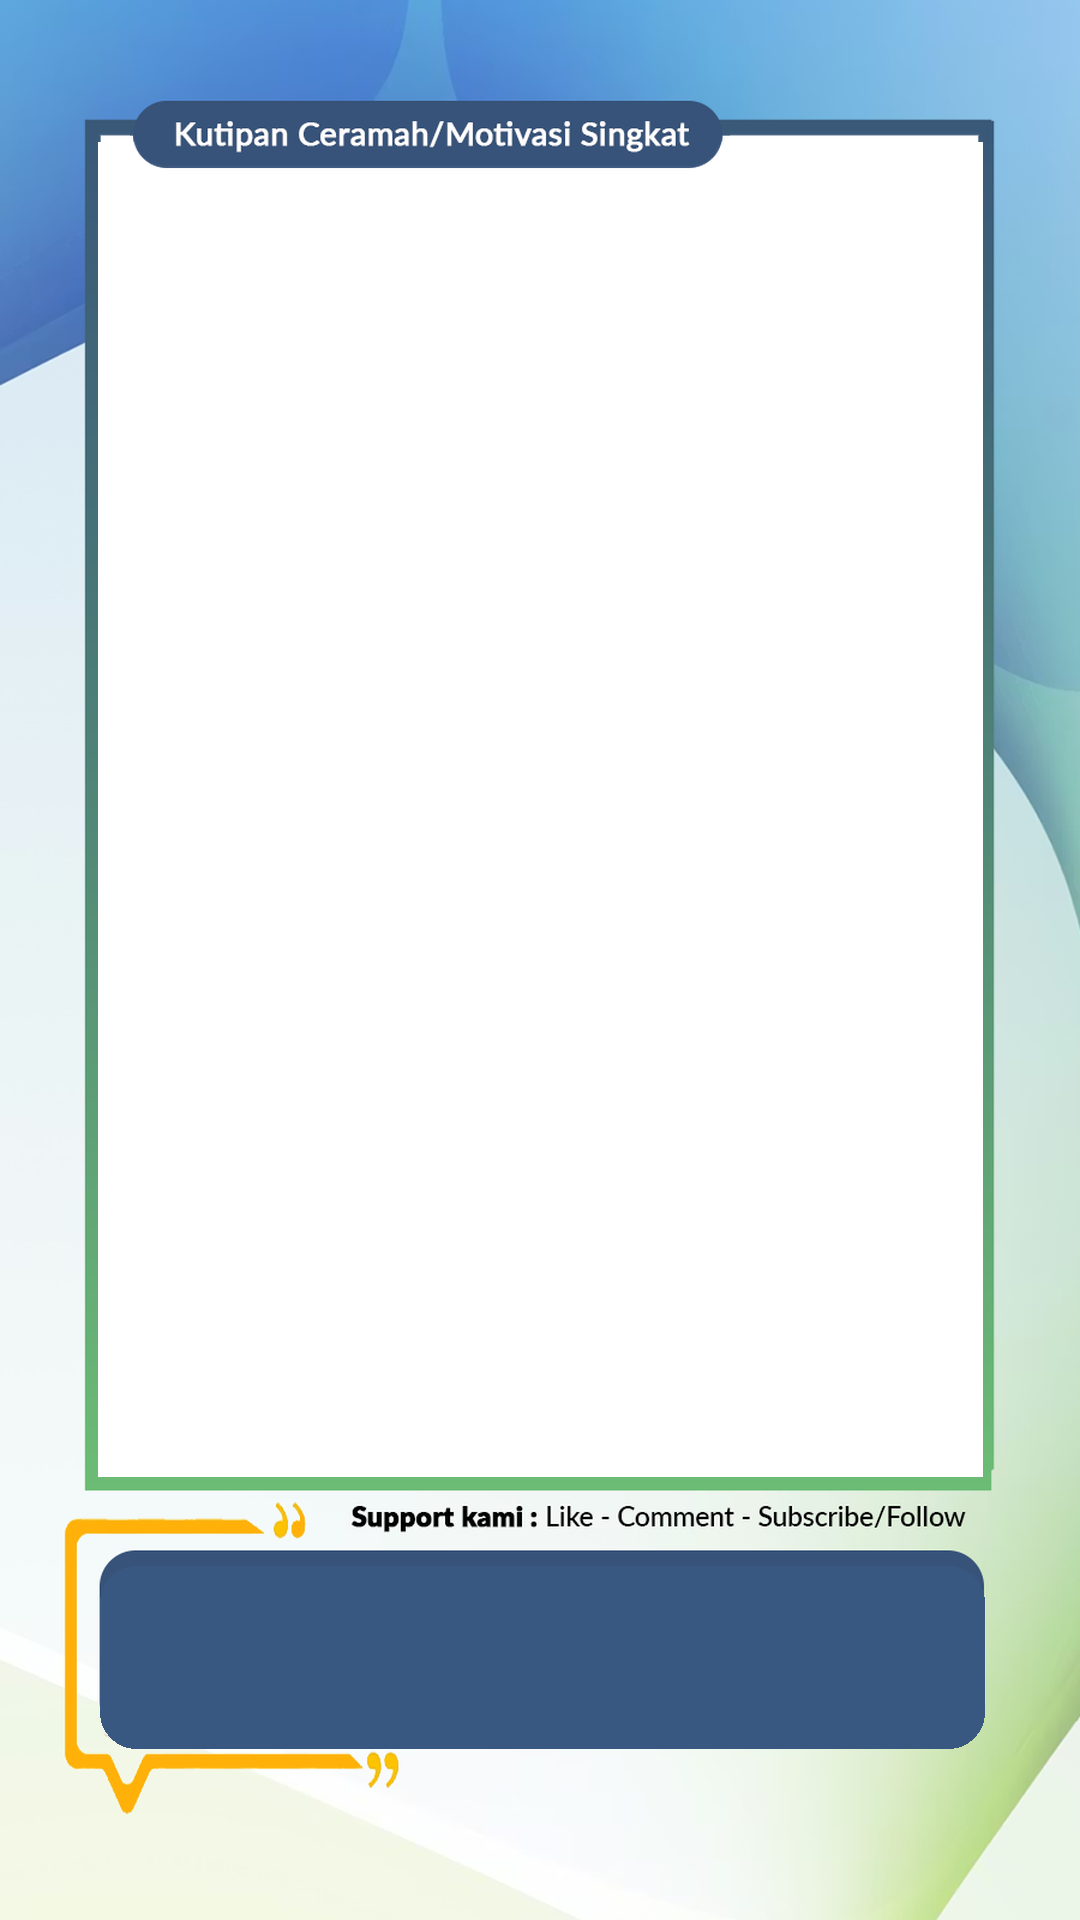
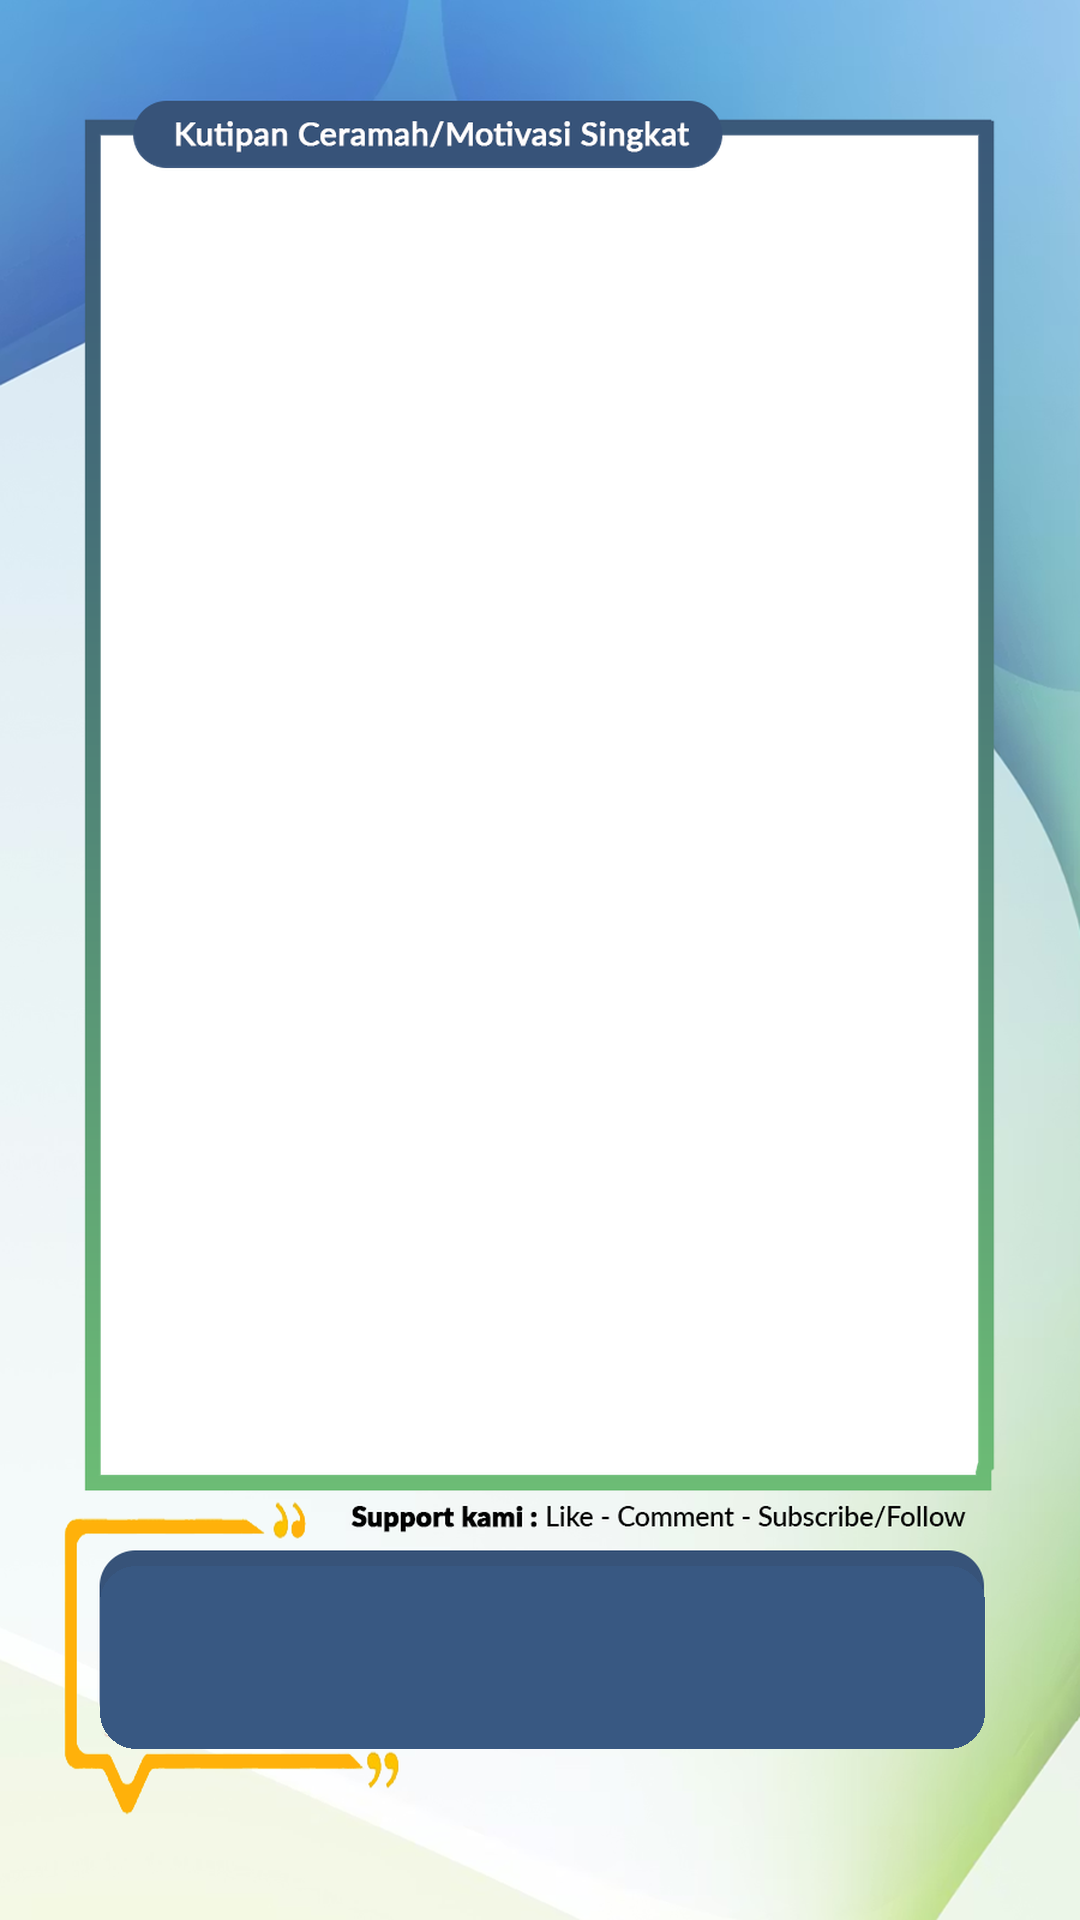
Use provided SkipByte frame design

Changed region(s): [[0.8861, 0.0938, 0.9167, 0.7812]]

diff --git a/src/video-effects.js b/src/video-effects.js
@@ -4,10 +4,10 @@ import { spawn } from "node:child_process";
 import { config } from "./config.js";
 
 const FRAME = {
-  width: 912,
-  height: 1362,
-  x: 84,
-  y: 128
+  width: 884,
+  height: 1334,
+  x: 98,
+  y: 142
 };
 const rendererPath = path.join(config.srcDir, "branding-renderer.py");
 
@@ -59,6 +59,11 @@ async function hasAudioStream(filePath) {
 
 function ffmpegPathArg(filePath) {
   return String(filePath).replace(/\\/g, "/").replace(/'/g, "\\'");
+}
+
+function foregroundFramePath(framePath) {
+  const parsed = path.parse(framePath);
+  return path.join(parsed.dir, `${parsed.name}-foreground${parsed.ext || ".png"}`);
 }
 
 function lightFilterChain() {
@@ -182,6 +187,7 @@ export async function applyVideoEffects({ job, video, output, options = {} }) {
   }
 
   const useFrame = selected.frame;
+  const frameForegroundPath = useFrame ? foregroundFramePath(config.videoEffects.frameAssetPath) : "";
   const useWatermark = !useFrame && selected.watermark && await fileIsReadable(config.videoEffects.watermarkAssetPath);
   const lowerThirdText = normalizeOverlayText(
     options.lowerThirdText
@@ -194,6 +200,9 @@ export async function applyVideoEffects({ job, video, output, options = {} }) {
   const useLowerThird = Boolean(useFrame && selected.lowerThird && lowerThirdText);
   if (selected.frame && !await fileIsReadable(config.videoEffects.frameAssetPath)) {
     throw new Error(`VIDEO_FRAME_ASSET tidak ditemukan: ${config.videoEffects.frameAssetPath}`);
+  }
+  if (useFrame && !await fileIsReadable(frameForegroundPath)) {
+    throw new Error(`VIDEO_FRAME foreground tidak ditemukan: ${frameForegroundPath}`);
   }
   if (!useFrame && selected.watermark && !useWatermark) {
     throw new Error(`VIDEO_WATERMARK_ASSET tidak ditemukan: ${config.videoEffects.watermarkAssetPath}`);
@@ -211,8 +220,8 @@ export async function applyVideoEffects({ job, video, output, options = {} }) {
 
   const args = ["-y", "-fflags", "+genpts", "-i", inputPath];
   if (useFrame) {
-    args.push("-f", "lavfi", "-i", "color=c=#070709:s=1080x1920:r=30");
     args.push("-loop", "1", "-i", config.videoEffects.frameAssetPath);
+    args.push("-loop", "1", "-i", frameForegroundPath);
   }
   if (useLowerThird) {
     args.push("-loop", "1", "-i", lowerThirdPath);
@@ -284,6 +293,7 @@ export async function applyVideoEffects({ job, video, output, options = {} }) {
       lowerThird: useLowerThird,
       lowerThirdText: useLowerThird ? lowerThirdText : "",
       frameAssetPath: useFrame ? ffmpegPathArg(config.videoEffects.frameAssetPath) : "",
+      frameForegroundPath: useFrame ? ffmpegPathArg(frameForegroundPath) : "",
       watermarkAssetPath: useWatermark ? ffmpegPathArg(config.videoEffects.watermarkAssetPath) : ""
     }
   };

diff --git a/src/branding-renderer.py b/src/branding-renderer.py
@@ -275,19 +275,27 @@ def render_frame(args):
     if source_path.exists():
         original = Image.open(source_path).convert("RGBA").resize((CANVAS_W, CANVAS_H), Image.Resampling.LANCZOS)
         canvas = original.copy()
-        alpha = canvas.getchannel("A")
-        alpha_draw = ImageDraw.Draw(alpha)
-        alpha_draw.rectangle((98, 142, 982, 1476), fill=0)
-        canvas.putalpha(alpha)
-        for box in [(130, 98, 730, 174), (775, 145, 970, 278)]:
-            canvas.alpha_composite(original.crop(box), box[:2])
         draw = ImageDraw.Draw(canvas)
         draw.rounded_rectangle((100, 1566, 984, 1748), radius=36, fill=(*SKIPBYTE_BLUE, 255))
         canvas.save(args.output, "PNG")
+
+        if args.foreground_output:
+            foreground = canvas.copy()
+            alpha = foreground.getchannel("A")
+            alpha_draw = ImageDraw.Draw(alpha)
+            alpha_draw.rectangle((98, 142, 982, 1476), fill=0)
+            foreground.putalpha(alpha)
+            for box in [(84, 118, 996, 160), (130, 98, 730, 174), (775, 145, 970, 278)]:
+                foreground.alpha_composite(canvas.crop(box), box[:2])
+            foreground.save(args.foreground_output, "PNG")
         return
 
     canvas = Image.new("RGBA", (CANVAS_W, CANVAS_H), (236, 248, 246, 255))
     draw = ImageDraw.Draw(canvas)
+
+    if args.foreground_output:
+        foreground = Image.new("RGBA", (CANVAS_W, CANVAS_H), (0, 0, 0, 0))
+        foreground.save(args.foreground_output, "PNG")
 
     for y in range(CANVAS_H):
         t = y / CANVAS_H
@@ -457,6 +465,7 @@ def main(argv):
     frame = sub.add_parser("frame")
     frame.add_argument("--output", required=True)
     frame.add_argument("--input", default="")
+    frame.add_argument("--foreground-output", default="")
     frame.add_argument("--logo", default="")
 
     args = parser.parse_args(argv)
